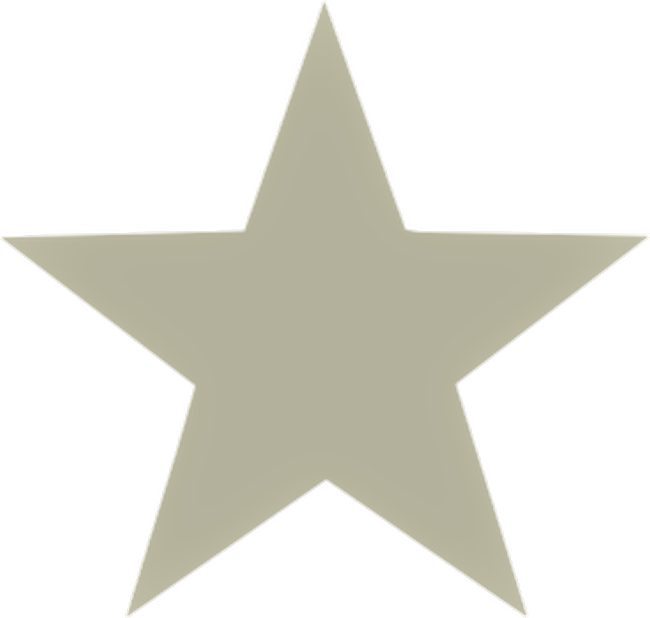
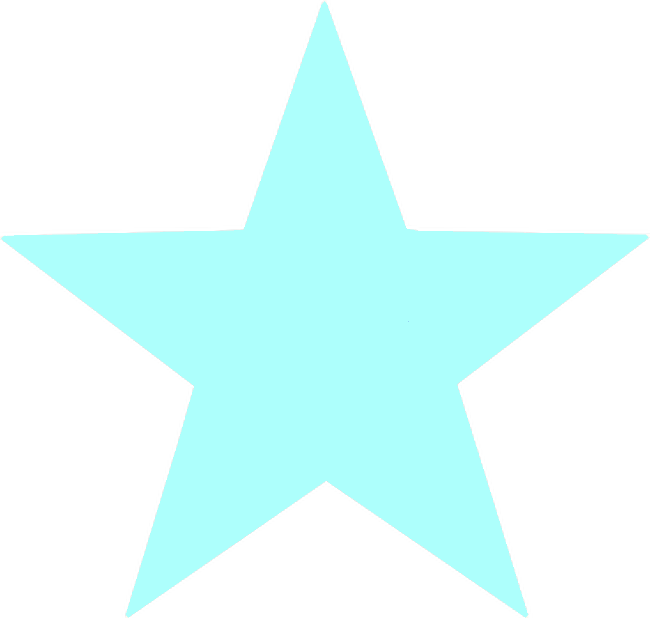
ertekeles.php oldalhoz stilus valtoztatas

diff --git a/CineMania/content/ertekeles/style.css b/CineMania/content/ertekeles/style.css
@@ -7,12 +7,14 @@ body, html {
 }
 
 .popup{
+	background-color:rgba(0, 0, 0, 0.5);
+	border-radius: 25px;
+	border: 2px solid #ccffff;
 	top: 20%;
 	left: 25%;
 	justify-content: center;
     align-items: center;
 	width: 40em;
-	border: 3px solid blue;
 	padding: 10px;
 	margin: auto;
 	position: absolute;
@@ -21,6 +23,7 @@ body, html {
 }
 
 .popupstar{
+	text-align: center;
 	margin: 0.2em;
 	float: left;
 	width: 18%;
@@ -57,18 +60,20 @@ body, html {
 }
 
 .box {
+	background-color:rgba(0, 0, 0, 0.5);
 	color: white;
 	float: left;
 	margin: 1em;
-	border: 3px solid #f1f1f1;
+	border-radius: 5px;
+	border: 3px solid #ccffff;
 	width: 22%;
 	height: 20%;
 }
 .box:hover{
-	border: 3px solid blue;
+	border: 3px solid #33d6ff;
 }
 .box:active{
-	border: 3px solid red;
+	border: 3px solid gray;
 }
 
 .paragraph {
